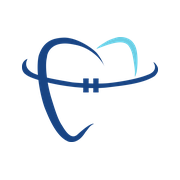
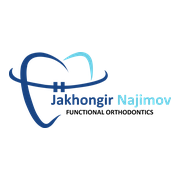
Add files via upload

Changed region(s): [[0.0278, 0.1944, 0.9722, 0.8056]]

diff --git a/index.html b/index.html
@@ -449,7 +449,7 @@ body:not([data-screen="list"]) .todaypill{display:none}
 <style>
 .authbox{position:fixed;inset:0;z-index:100;background:var(--bg);display:grid;place-items:center;padding:24px max(16px,env(safe-area-inset-left,0px)) 24px max(16px,env(safe-area-inset-right,0px));overflow:auto}
 .authcard{width:100%;max-width:380px;display:flex;flex-direction:column;gap:8px}
-.authlogo{width:96px;height:96px;border-radius:22px;align-self:center;margin-bottom:6px}
+.authlogo{width:100%;max-width:300px;height:auto;align-self:center;margin-bottom:10px;background:#fff;border-radius:16px;padding:10px 14px;box-sizing:border-box}
 .authcard h1{margin:0;text-align:center;font-size:26px;color:var(--navy)}
 .authsub{margin:0 0 12px;text-align:center;font-size:12px;letter-spacing:.06em;text-transform:uppercase;color:var(--muted)}
 .authcard label{font-size:11.5px;font-weight:700;letter-spacing:.06em;text-transform:uppercase;color:var(--muted);margin-top:6px}
@@ -461,9 +461,8 @@ body:not([data-screen="list"]) .todaypill{display:none}
 <body>
 <div id="auth" class="authbox" hidden>
   <form id="authform" class="authcard" autocomplete="on">
-    <img class="authlogo" src="icon-512.png" alt="">
+    <img class="authlogo" src="logo.png" alt="Jakhongir Najimov — Functional Orthodontics">
     <h1>Ortho CRM</h1>
-    <p class="authsub">Jakhongir Najimov · Functional Orthodontics</p>
     <label for="aemail">Почта</label><input id="aemail" type="email" autocomplete="username" required>
     <label for="apass">Пароль</label><input id="apass" type="password" autocomplete="current-password" minlength="6" required>
     <div id="authmsg" class="authmsg" hidden></div>

diff --git a/sw.js b/sw.js
@@ -1,7 +1,7 @@
 // Ortho CRM service worker: app shell opens fast and works on a weak connection.
 // Data always comes live from Supabase; only the app files are cached.
-const CACHE = "ortho-crm-v1";
-const SHELL = ["./", "./index.html", "./manifest.json", "./icon-180.png", "./icon-192.png", "./icon-512.png"];
+const CACHE = "ortho-crm-v2";
+const SHELL = ["./", "./index.html", "./manifest.json", "./icon-180.png", "./icon-192.png", "./icon-512.png", "./logo.png"];
 self.addEventListener("install", e => { e.waitUntil(caches.open(CACHE).then(c => c.addAll(SHELL)).then(() => self.skipWaiting())); });
 self.addEventListener("activate", e => { e.waitUntil(caches.keys().then(ks => Promise.all(ks.filter(k => k !== CACHE).map(k => caches.delete(k)))).then(() => self.clients.claim())); });
 self.addEventListener("fetch", e => {
